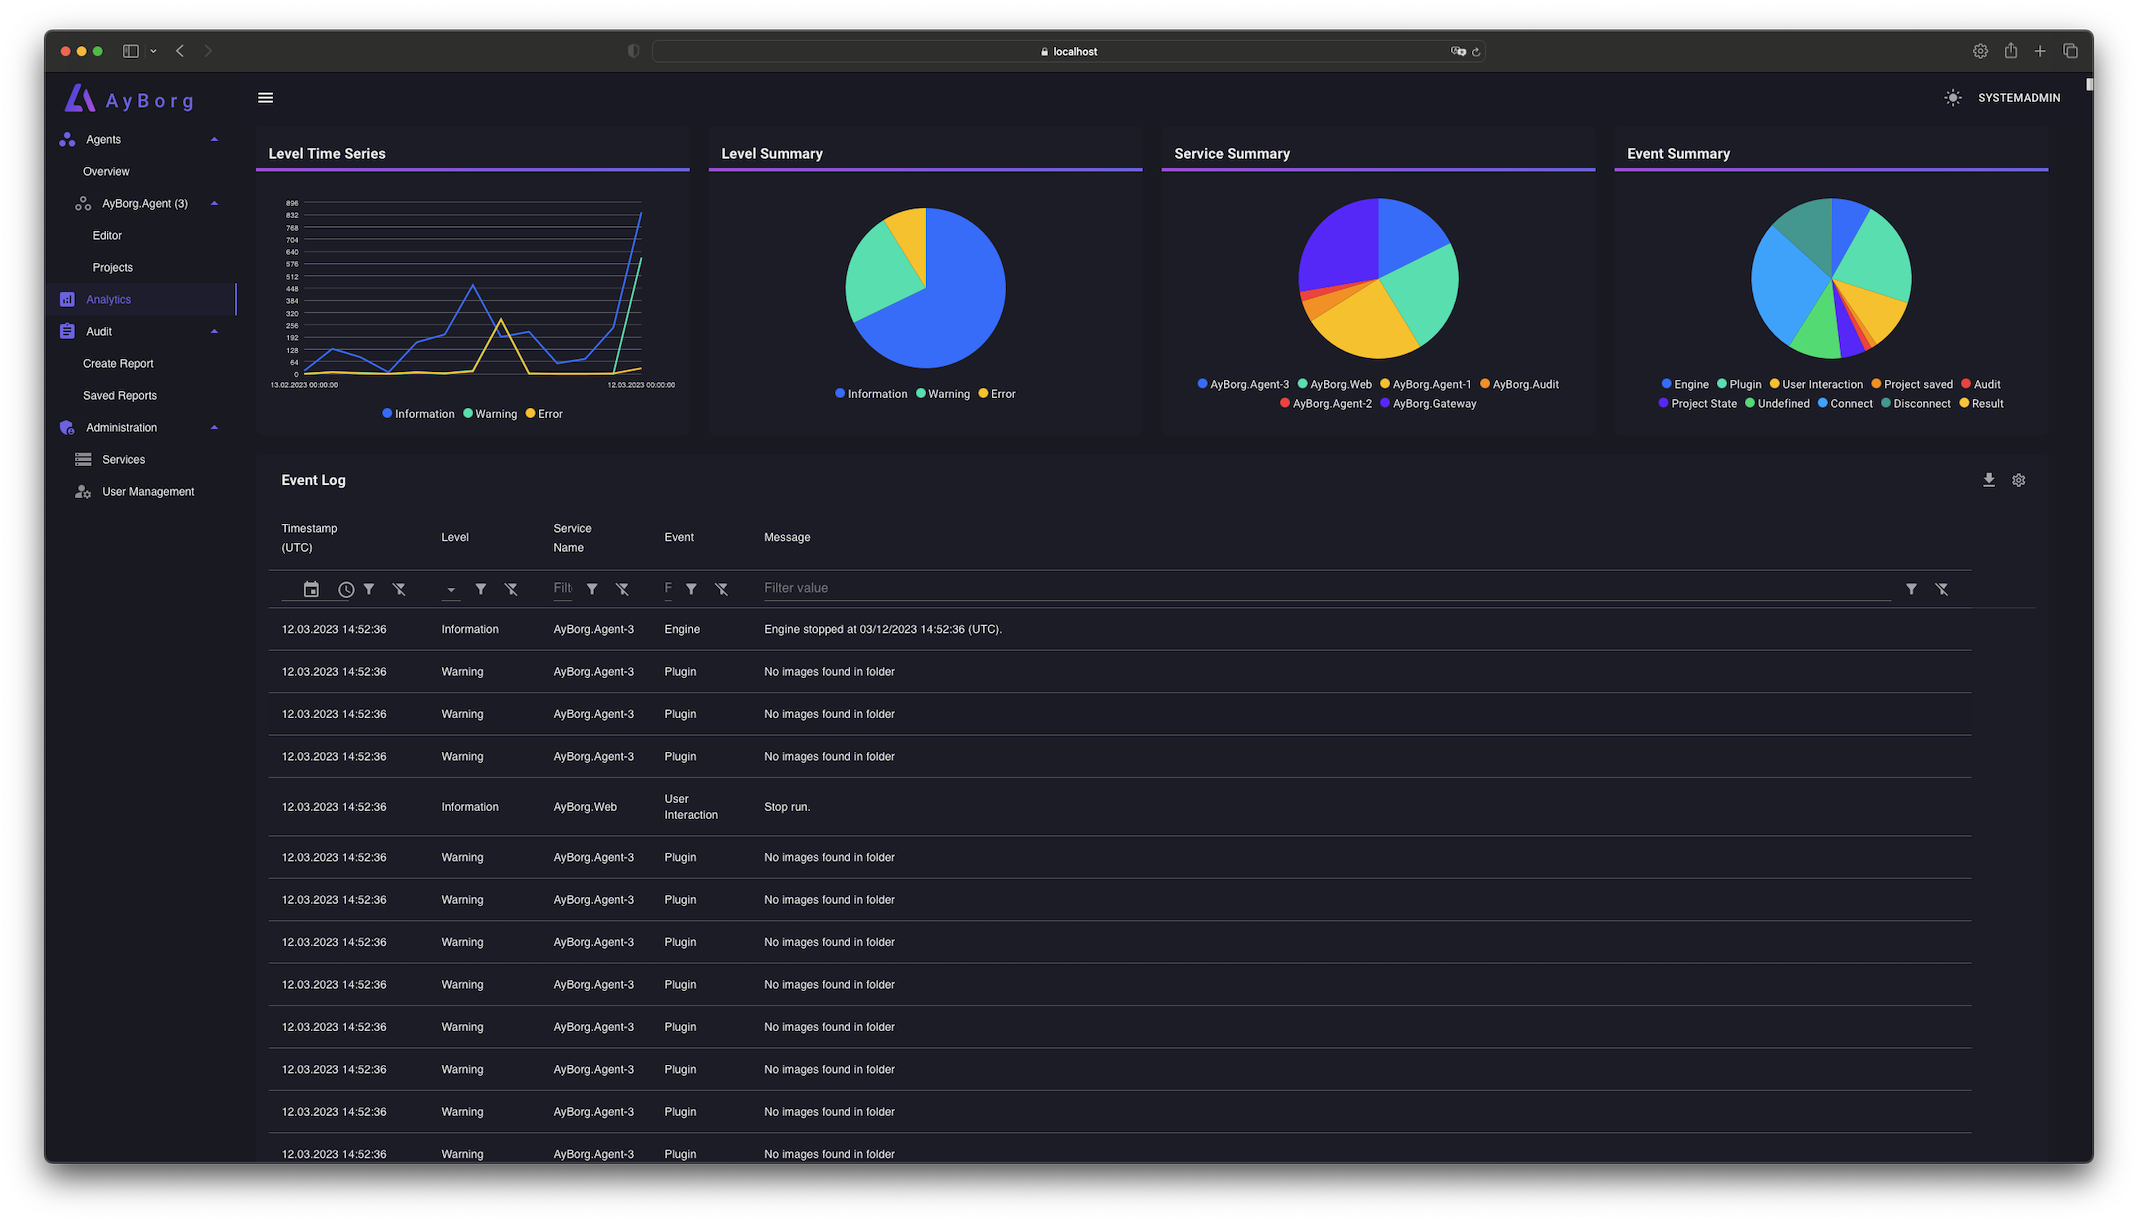
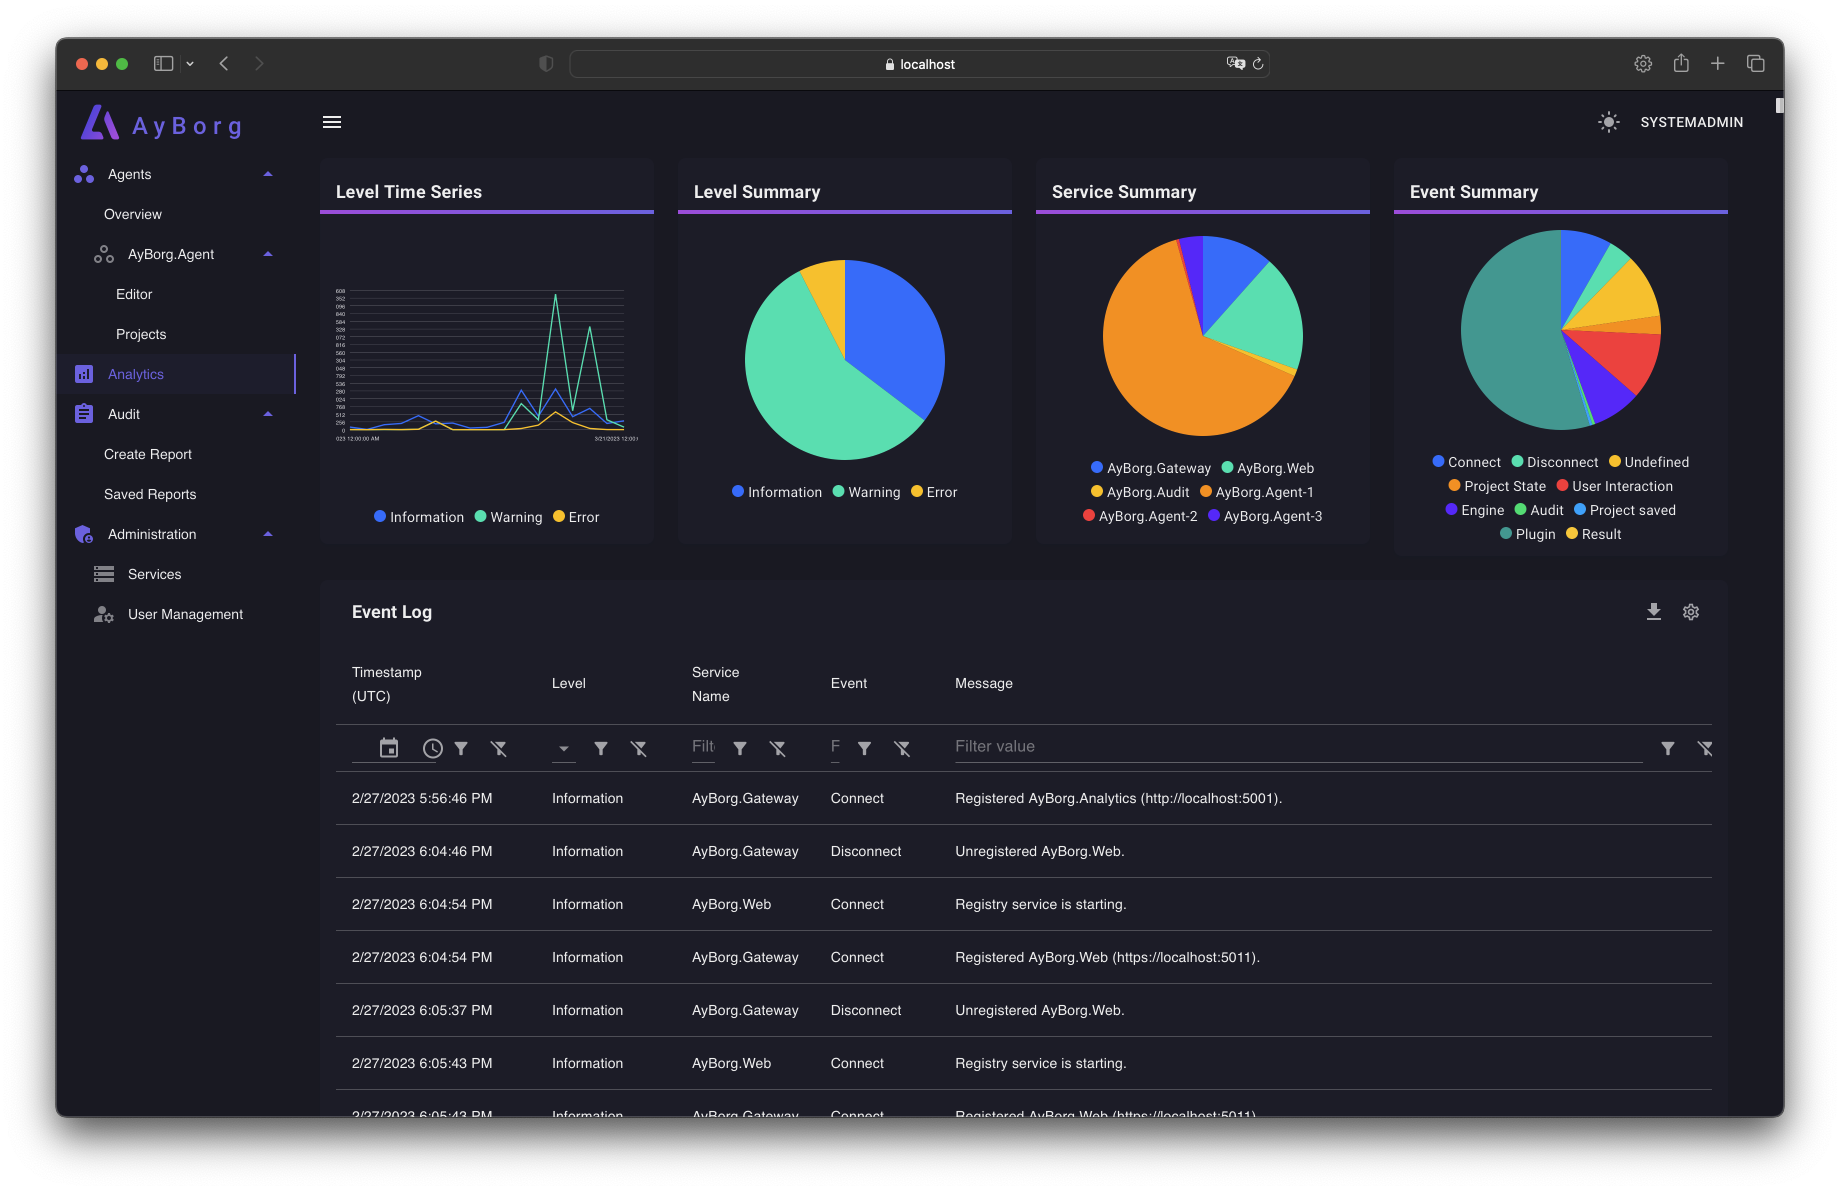
Replaced some screenshots and added alternative theme

diff --git a/README.md b/README.md
@@ -22,7 +22,8 @@ AyBorg's **Agents** are specially designed services for automating processes. Us
 
 Our user-friendly editor makes it a breeze to program your own workflows using simple drag and drop of steps/plugins into the data flow.
 
-![AgentEditor](docs/img/agent-editor.png)
+![Agent editor dark](docs/img/agent-editor.png)
+![Agent editor light](docs/img/agent-editor-alt.png)
 
 ### Work with multiple agents
 
@@ -40,7 +41,8 @@ The project overview lays out all the projects and their current status. That wa
 
 Get an overview of all events at a glance, whether it's user interaction, system event, or exception. It is important that you can understand and control your system at all times.
 
-![Analytics](docs/img/analytics.png)
+![Analytics dark](docs/img/analytics.png)
+![Analytics light](docs/img/analytics-alt.png)
 
 ## Audit
 
@@ -62,11 +64,13 @@ In industries such as **medicine**, **pharmaceuticals**, and **food**, it is bec
 
 ### Service overview
 
-![ServiceOverview](docs/img/admin-service-overview.png)
+![Service overview](docs/img/admin-service-overview.png)
+![Service overview](docs/img/admin-service-overview-alt.png)
 
 ### Usermanagement
 
-![Usermanagement](docs/img/admin-usermanagement.png)
+![Usermanagement dark](docs/img/admin-usermanagement.png)
+![Usermanagement light](docs/img/admin-usermanagement-alt.png)
 
 ## Getting started
 
